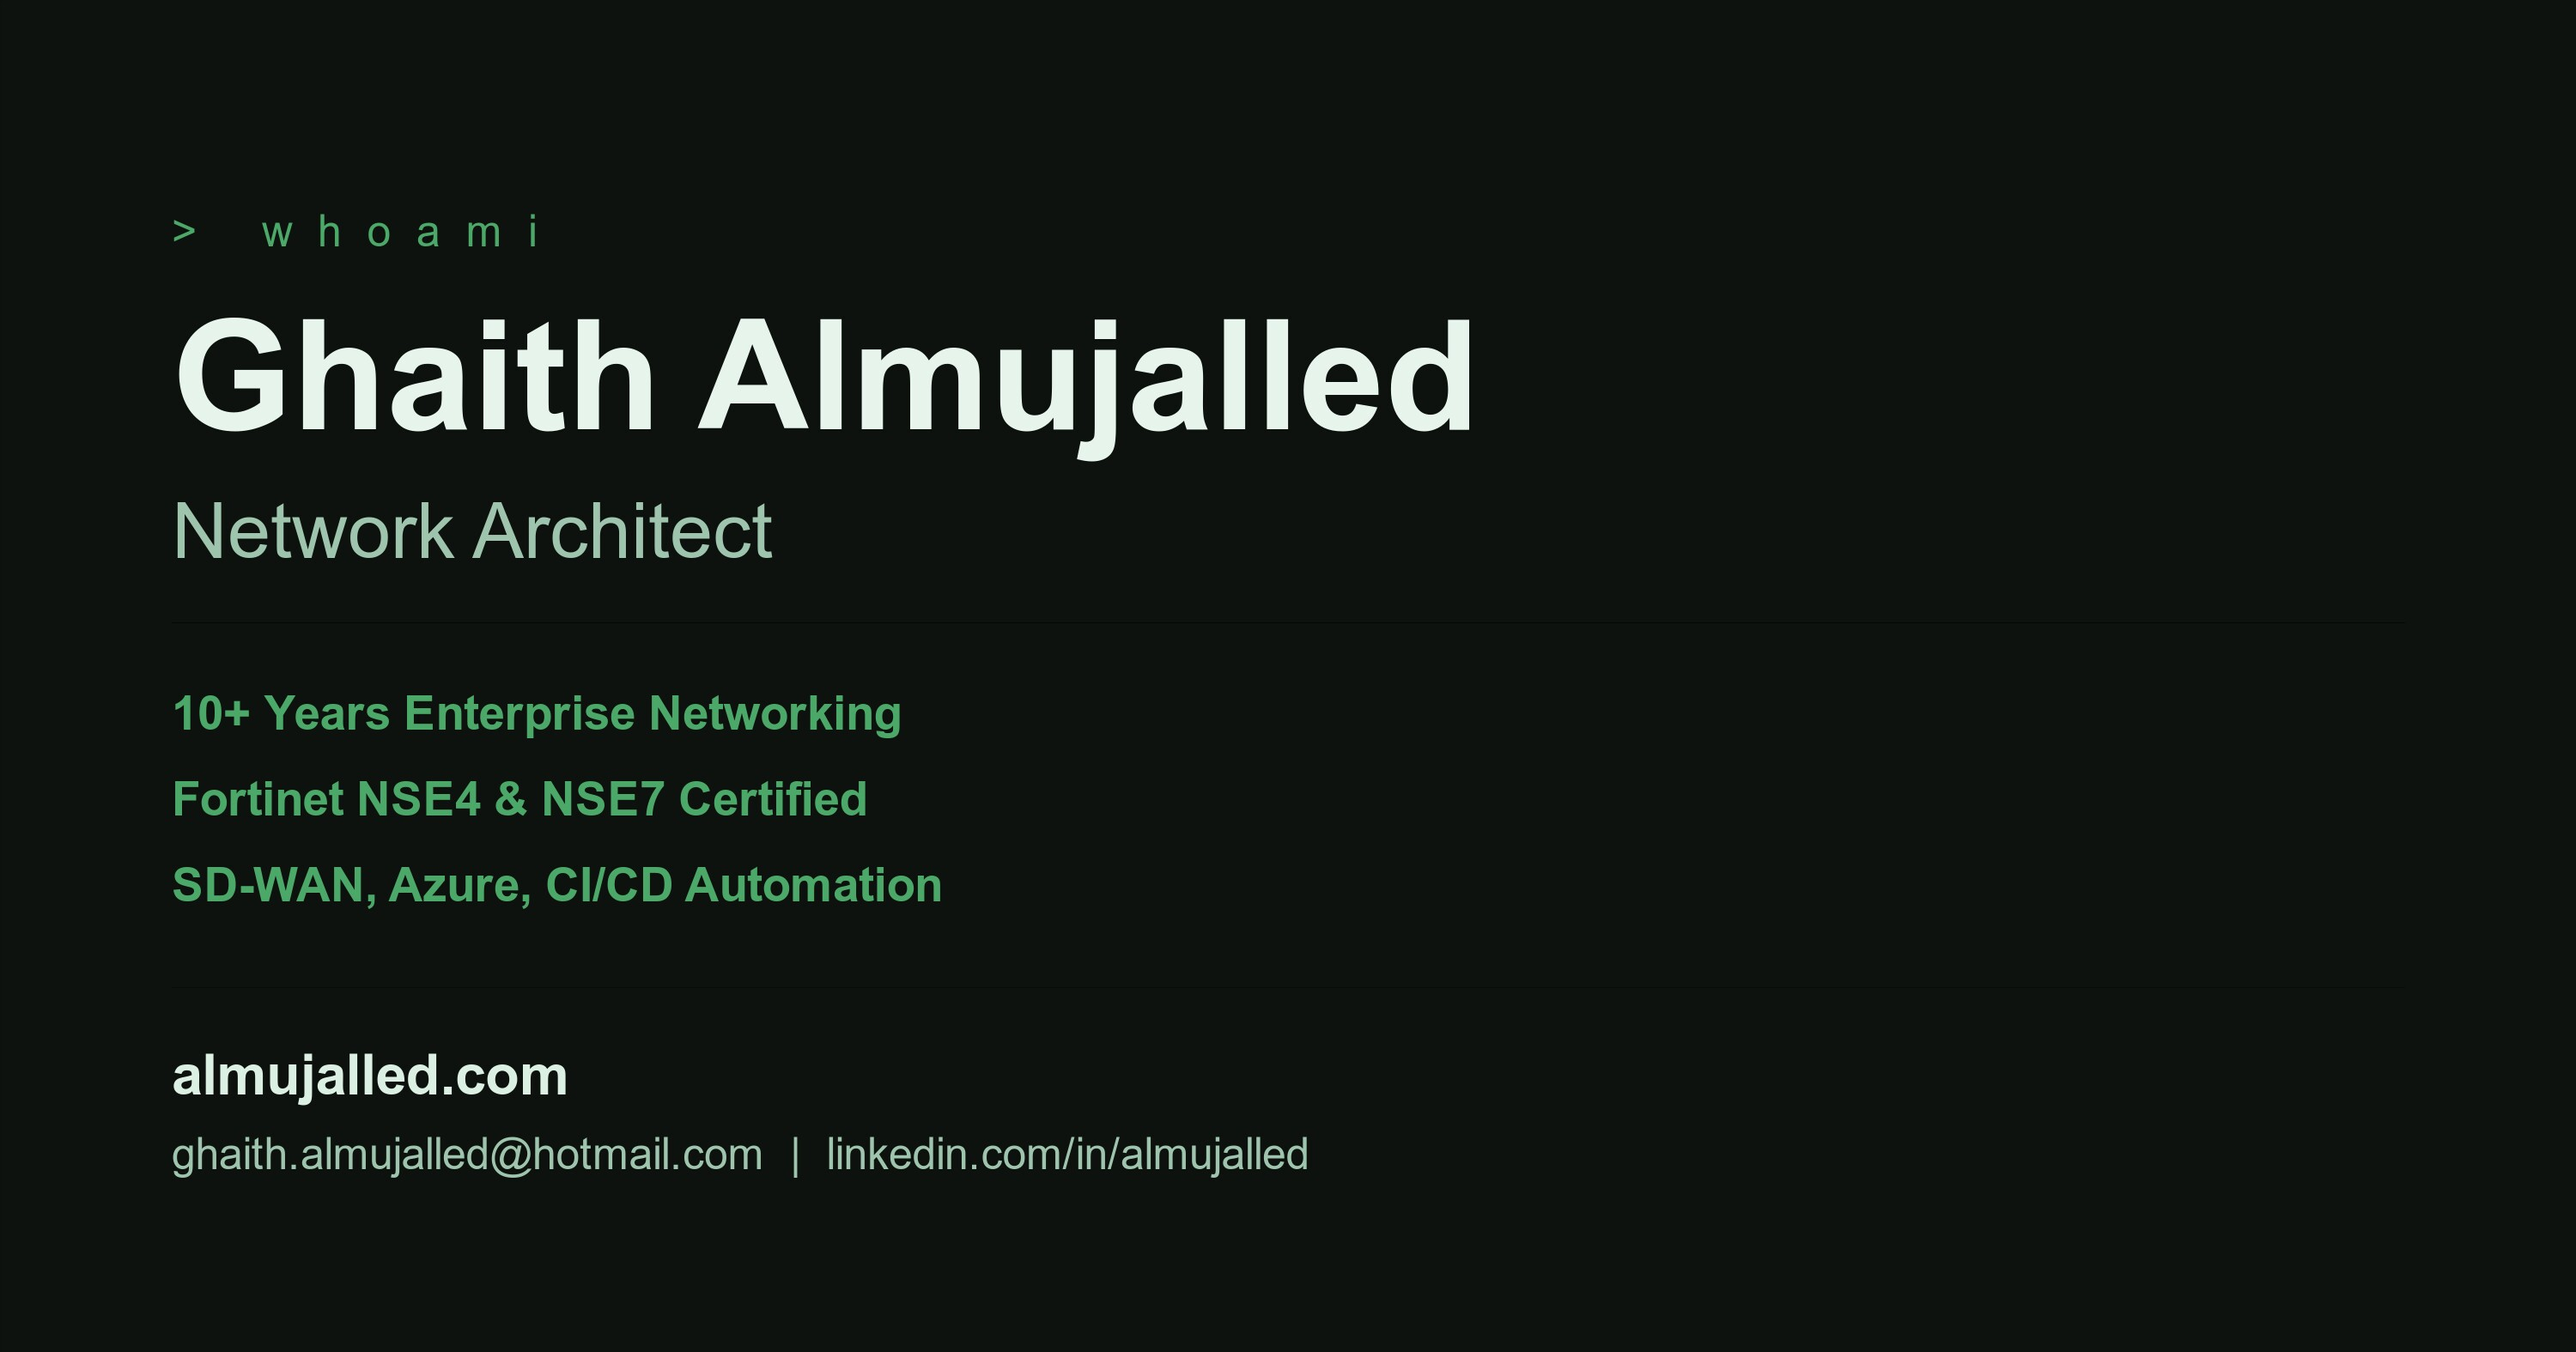
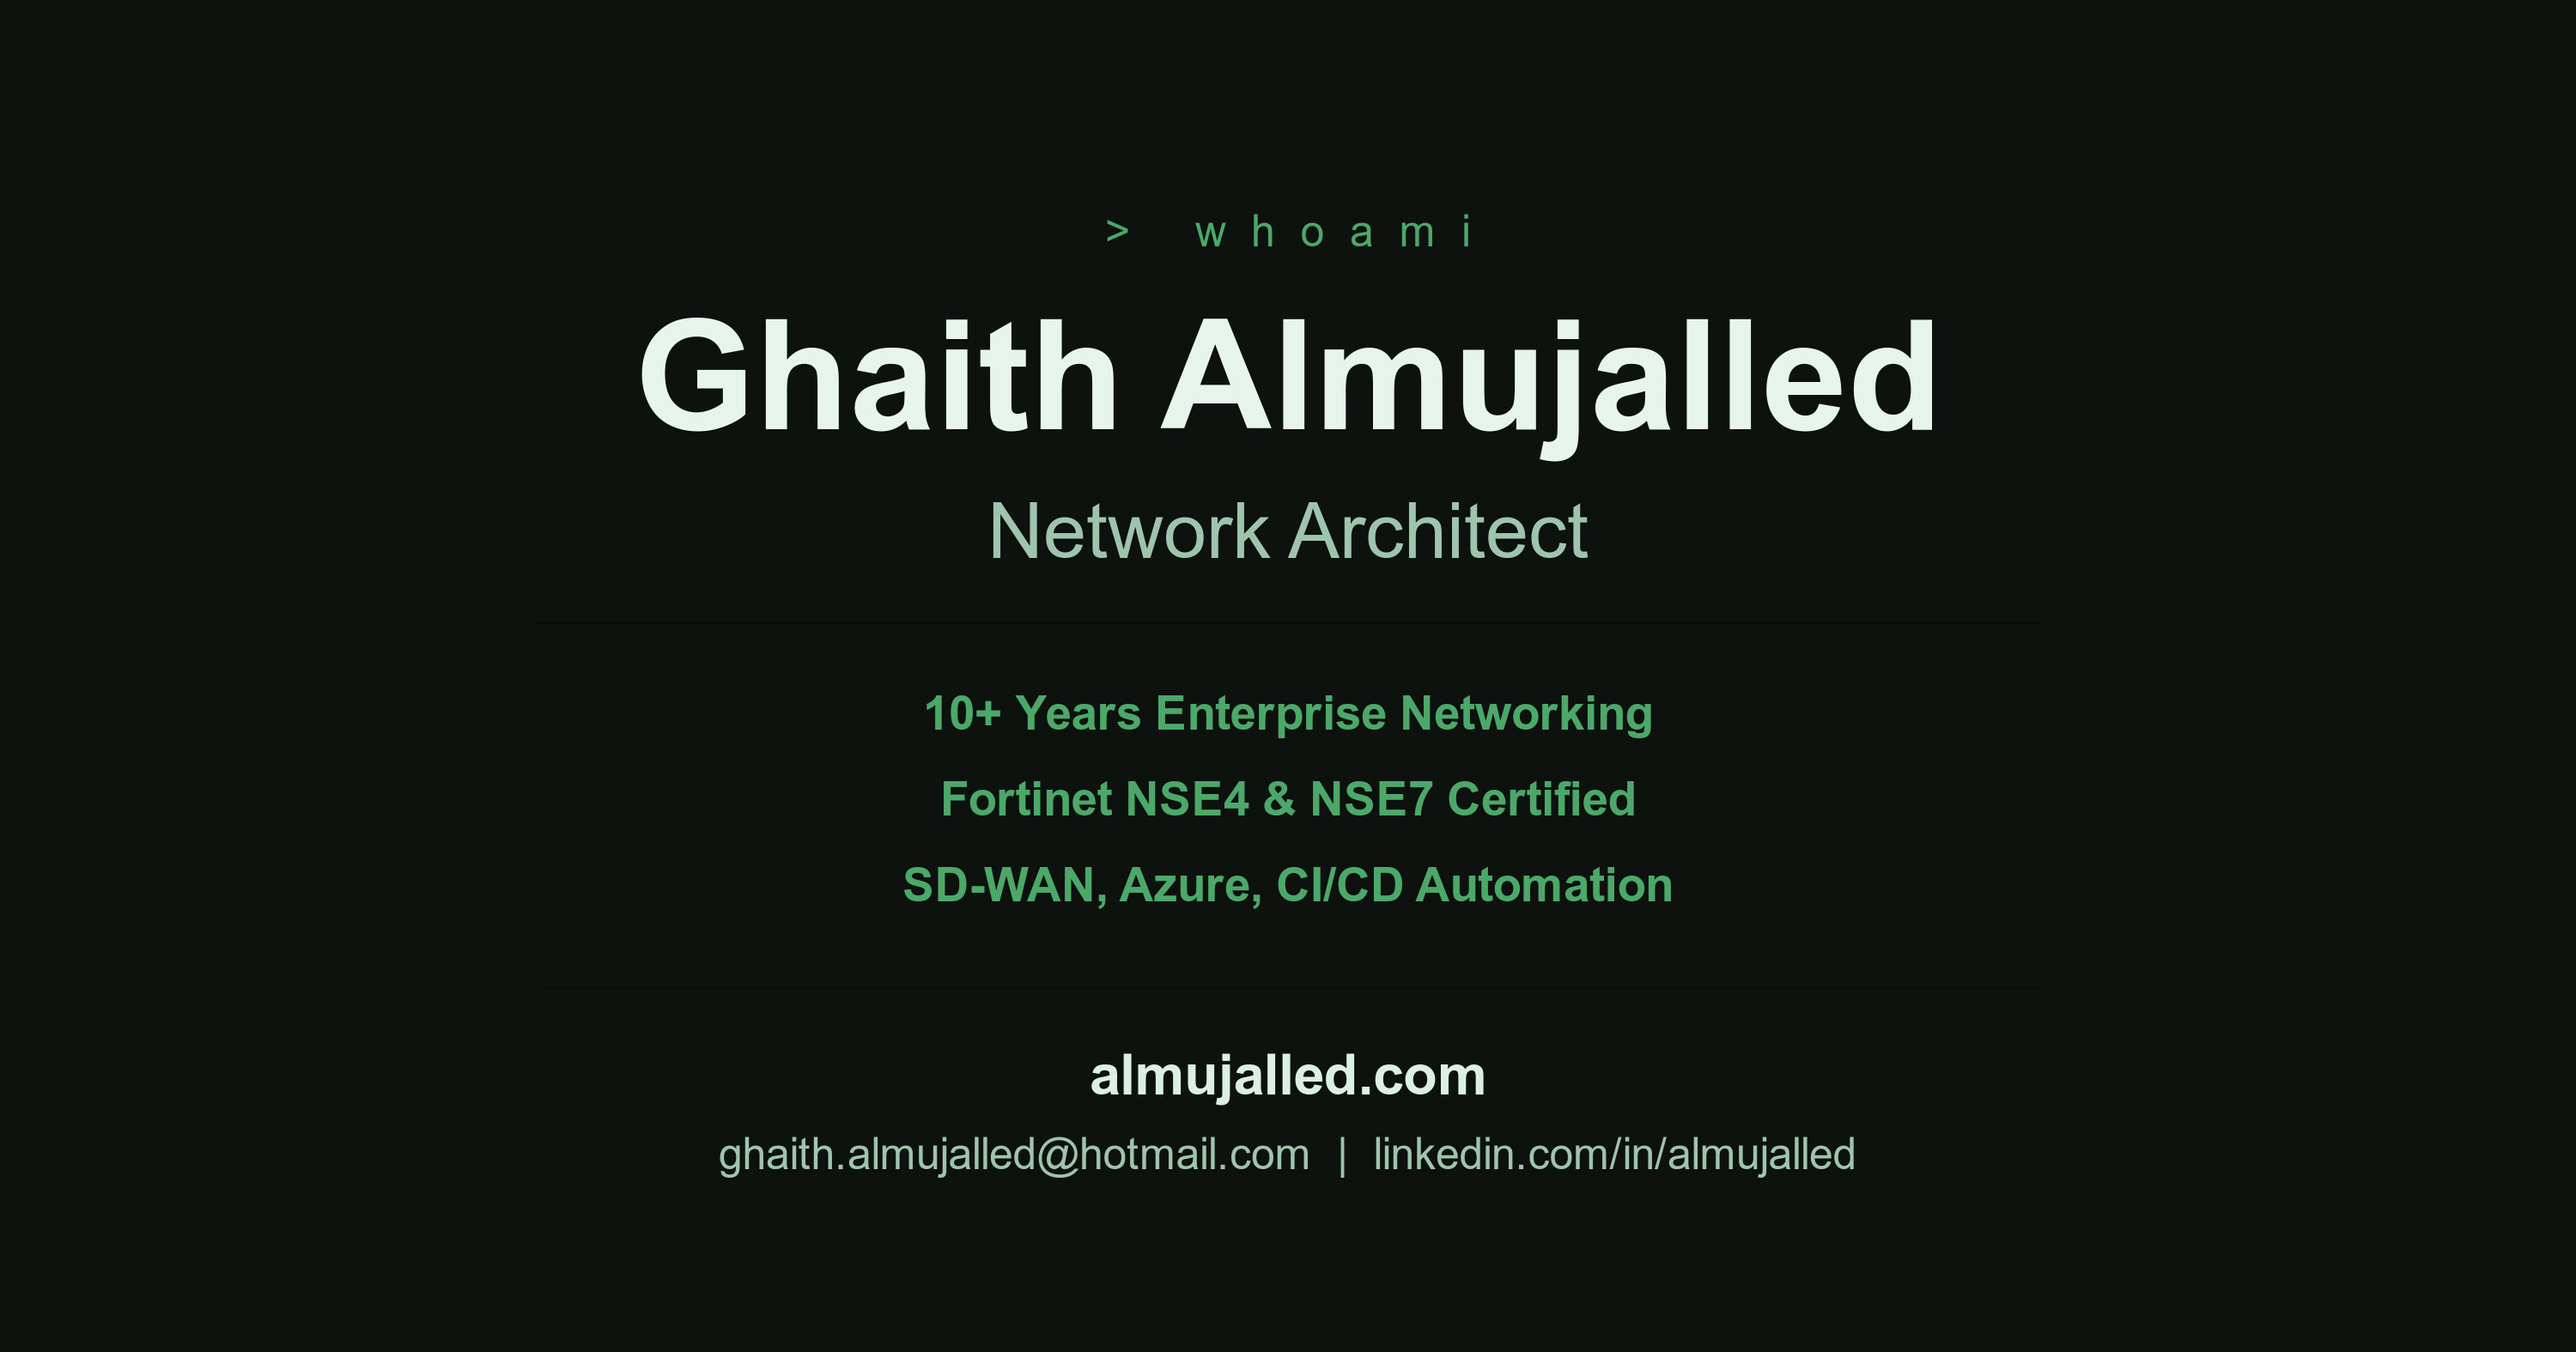
refactor: Update Open Graph images for cache-busting and improve SVG layout

diff --git a/index.html b/index.html
@@ -21,16 +21,16 @@
     <meta property="profile:username" content="almujalled">
     <meta property="og:url" content="https://almujalled.com">
     <!-- Image version for cache-busting; bump when image changes -->
-    <!-- Current version: 20251215 -->
-    <meta property="og:image" content="https://almujalled.com/og-image.png?v=20251215">
-    <meta property="og:image:secure_url" content="https://almujalled.com/og-image.png?v=20251215">
+    <!-- Current version: 20251215-2 -->
+    <meta property="og:image" content="https://almujalled.com/og-image.png?v=20251215-2">
+    <meta property="og:image:secure_url" content="https://almujalled.com/og-image.png?v=20251215-2">
     <meta property="og:image:type" content="image/png">
     <meta property="og:image:width" content="1200">
     <meta property="og:image:height" content="630">
     <meta property="og:image:alt" content="Ghaith Almujalled - Network Architect with 10+ years experience in SD-WAN, Azure, and Fortinet">
     <!-- Fallback image for platforms preferring JPG -->
-    <meta property="og:image" content="https://almujalled.com/og-image.jpg?v=20251215">
-    <meta property="og:image:secure_url" content="https://almujalled.com/og-image.jpg?v=20251215">
+    <meta property="og:image" content="https://almujalled.com/og-image.jpg?v=20251215-2">
+    <meta property="og:image:secure_url" content="https://almujalled.com/og-image.jpg?v=20251215-2">
     <meta property="og:image:type" content="image/jpeg">
     <meta property="og:image:width" content="1200">
     <meta property="og:image:height" content="630">
@@ -48,7 +48,7 @@
     <meta name="twitter:card" content="summary_large_image">
     <meta name="twitter:title" content="Ghaith Almujalled - Network Architect">
     <meta name="twitter:description" content="Senior Network Architect | SD-WAN | Azure | Fortinet NSE7 | Telecom">
-    <meta name="twitter:image" content="https://almujalled.com/og-image.png?v=20251215">
+    <meta name="twitter:image" content="https://almujalled.com/og-image.png?v=20251215-2">
     <meta name="twitter:image:alt" content="Ghaith Almujalled - Network Architect with 10+ years experience in SD-WAN, Azure, and Fortinet">
     
     <!-- Favicon -->
